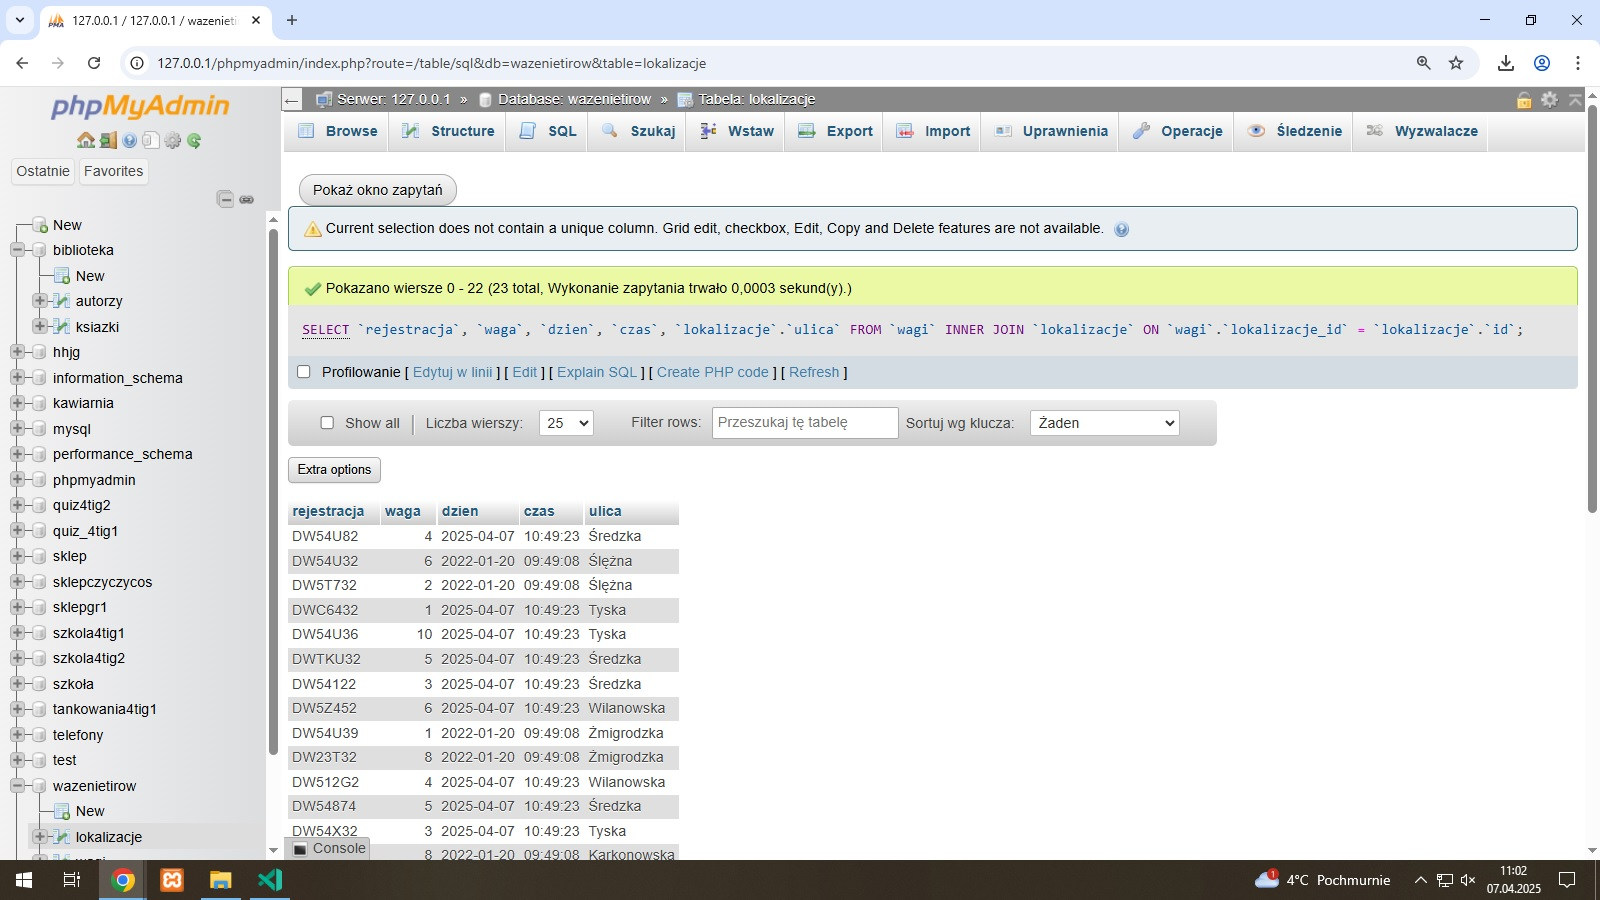
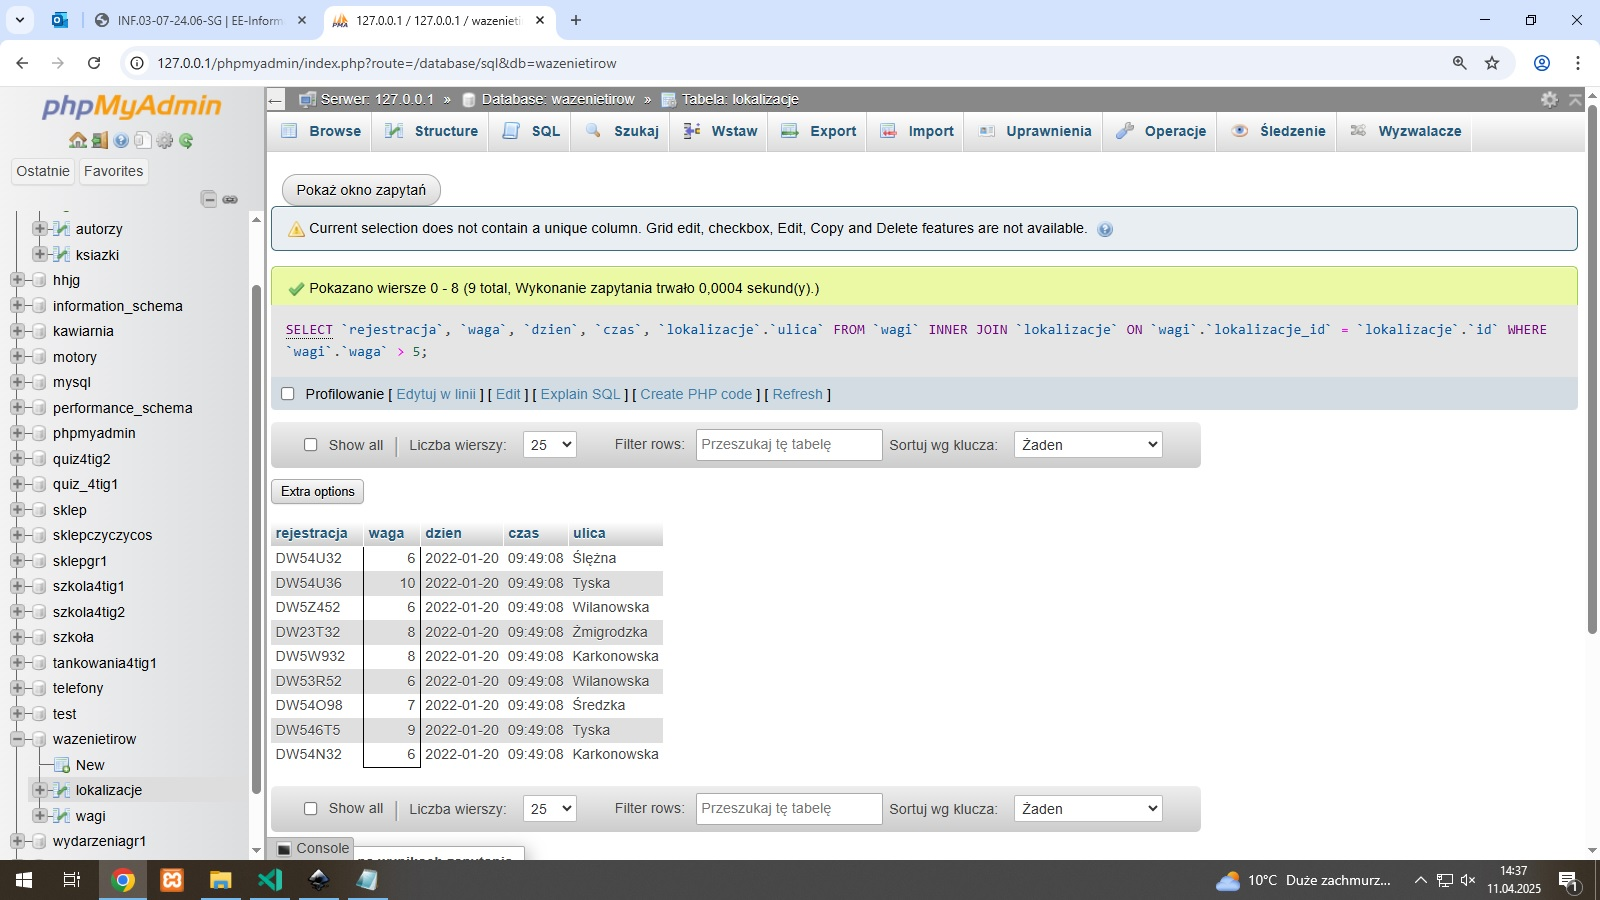
done

diff --git a/styl.css b/styl.css
@@ -1,0 +1,69 @@
+*{
+    font-family: Tahoma;
+}
+
+#goralewo, #goraprawo{
+    background-color: #519657;
+    color: white;
+    text-align: center;
+    height: 150px;
+}
+
+#goralewo{
+    width: 70%;
+}
+
+#goraprawo{
+    width: 30%;
+}
+
+#lewy, #srodkowy, #prawy{
+    background-color: #E1E1E1;
+    height: 450px;
+}
+
+#lewy, #prawy{
+    width: 25%;
+}
+
+#srodkowy{
+    width: 50%;
+    overflow: auto;
+}
+
+footer{
+    background-color: #80C683;
+    text-align: center;
+}
+
+#obraz2{
+    width: 100%;
+    padding-top: 100px;
+    padding-bottom: 100px;
+    padding-left: 0px;
+    padding-right: 0px;
+}
+
+table{
+    border: solid 1px #80C683;
+}
+
+td{
+    padding: 2px;
+}
+
+tr:hover{
+    background-color: #80C683;
+}
+
+tr:last-child{
+    background-color: red;
+}
+
+main{
+    display: flex;
+}
+
+header{
+    display: flex;
+}

diff --git a/wazenie.php b/wazenie.php
@@ -19,23 +19,59 @@
         <section id="lewy">
             <h2>Lokalizacje wag</h2>
             <ol>
-                <!-- ! skrypt -->
+                <?php
+
+                    $PDO = new PDO('mysql:host=localhost;dbname=wazenietirow;charset=utf8;port=3306', 'root', '');
+
+                    $stmt = $PDO->query('SELECT * FROM `lokalizacje`');
+
+                    foreach($stmt as $row){
+
+                        echo '<li>ulica ' . $row['ulica'] . '</li>';
+
+                    }
+
+                ?>
             </ol>
             <h2>Kontakt</h2>
-            <a href="mailto:wazenie@wroclaw.pl"></a>
+            <a href="mailto:wazenie@wroclaw.pl">napisz</a>
         </section>
         <section id="srodkowy">
             <h2>Alerty</h2>
             <table>
                 <tr><th>rejestracja</th><th>ulica</th><th>waga</th><th>dzień</th><th>czas</th></tr>
+                <?php
+
+                    $PDO = new PDO('mysql:host=localhost;dbname=wazenietirow;charset=utf8;port=3306', 'root', '');
+
+                    $stmt = $PDO->query('SELECT `rejestracja`, `waga`, `dzien`, `czas`, `lokalizacje`.`ulica` FROM `wagi` INNER JOIN `lokalizacje` ON `wagi`.`lokalizacje_id` = `lokalizacje`.`id` WHERE `wagi`.`waga` > 5');
+
+                    foreach($stmt as $row){
+
+                        echo '<tr><td>' . $row['rejestracja'] . '</td><td>' . $row['ulica'] . '</td><td>' . $row['waga'] . '</td><td>' . $row['dzien'] . '</td><td>' . $row['czas'] . '</td></tr>';
+
+                    }
+
+                ?>
             </table>
         </section>
         <section id="prawy">
-
+            <img src="obraz2.jpg" alt="tir" id="obraz2">
         </section>
     </main>
     <footer>
-
+        <p>Strone wykonał: Warmowski Nikodem</p>
     </footer>
 </body>
 </html>
+<?php
+
+    $PDO = new PDO('mysql:host=localhost;dbname=wazenietirow;charset=utf8;port=3306', 'root', '');
+
+    $stmt = $PDO->query('INSERT INTO `wagi`(`lokalizacje_id`, `waga`, `rejestracja`, `dzien`, `czas`) VALUES (5, FLOOR(1 + RAND() * (10 - 1 + 1)), "DW12345", CURRENT_DATE, CURRENT_TIME)');
+
+    header('Refresh: 10');
+
+    $PDO = NULL;
+
+?>
